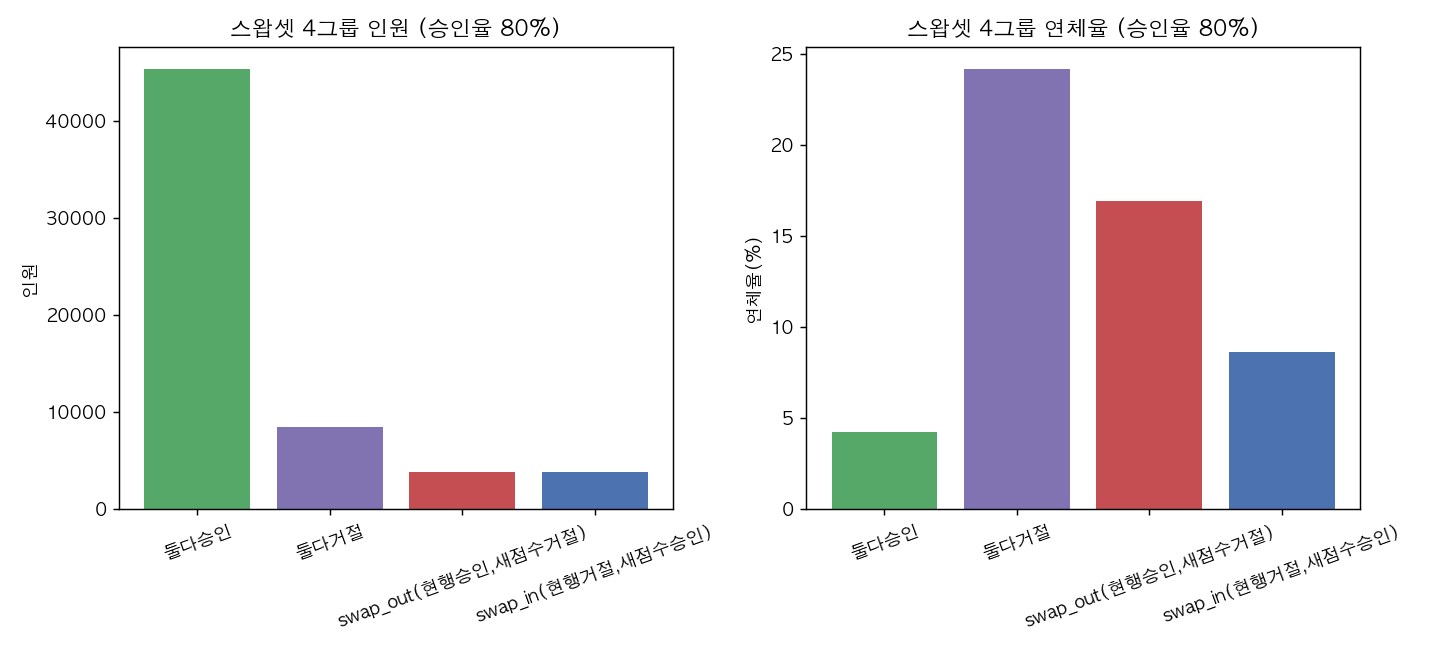
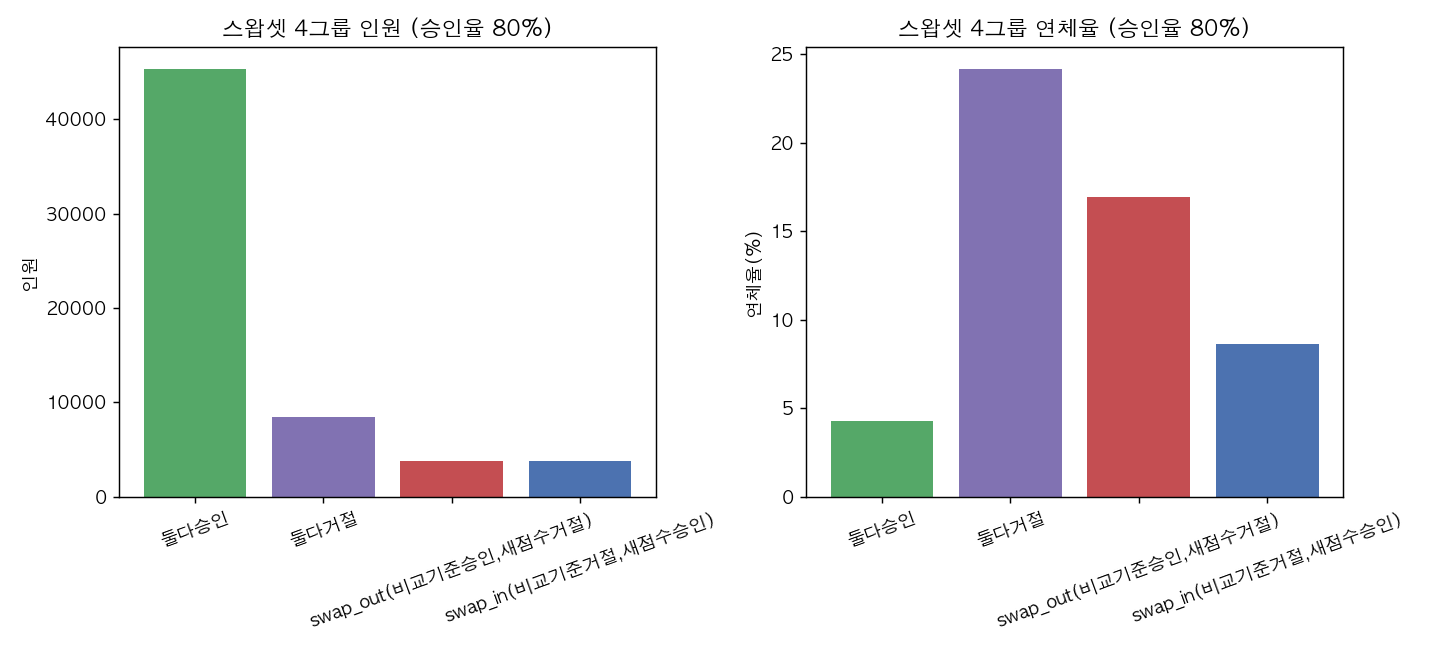
용어 정리: 최종 평가 라벨 비교 기준으로 변경 (수치 동일 확인)

diff --git a/v2/scripts/08_final_evaluation.py b/v2/scripts/08_final_evaluation.py
@@ -246,7 +246,7 @@ for r in h6_table:
 champ_rate_80, _ = approved_bad_rate(champ_score, holdout["TARGET"].values, 0.80)
 new_rate_needed = scan_approval_rate_for_target_rate(new_score, holdout["TARGET"].values, champ_rate_80)
 approval_rate_increase = (new_rate_needed - 0.80) * 100 if new_rate_needed is not None else None
-print(f"\n현행 80% 승인율의 연체율 {champ_rate_80*100:.3f}%와 같거나 낮은 연체율을 새 점수는 {new_rate_needed*100 if new_rate_needed else 'N/A'}% 승인율에서 달성 (증가폭 {approval_rate_increase}%p)")
+print(f"\n비교 기준 80% 승인율의 연체율 {champ_rate_80*100:.3f}%와 같거나 낮은 연체율을 새 점수는 {new_rate_needed*100 if new_rate_needed else 'N/A'}% 승인율에서 달성 (증가폭 {approval_rate_increase}%p)")
 
 # 부트스트랩 95% CI (seed 고정, 복원추출 1,000회)
 boot_diffs = {a: [] for a in approval_rates}
@@ -288,8 +288,8 @@ new_approve_80 = approve_mask(new_score, 0.80)
 swap_groups = {
     "둘다승인": champ_approve_80 & new_approve_80,
     "둘다거절": (~champ_approve_80) & (~new_approve_80),
-    "swap_out(현행승인,새점수거절)": champ_approve_80 & (~new_approve_80),
-    "swap_in(현행거절,새점수승인)": (~champ_approve_80) & new_approve_80,
+    "swap_out(비교기준승인,새점수거절)": champ_approve_80 & (~new_approve_80),
+    "swap_in(비교기준거절,새점수승인)": (~champ_approve_80) & new_approve_80,
 }
 swap_table = []
 for name, mask in swap_groups.items():
@@ -406,7 +406,7 @@ fig, ax = plt.subplots(figsize=(8, 6))
 grid = np.arange(0.50, 1.0001, 0.01)
 champ_curve = [approved_bad_rate(champ_score, target_vals, a)[0] * 100 for a in grid]
 new_curve = [approved_bad_rate(new_score, target_vals, a)[0] * 100 for a in grid]
-ax.plot(grid * 100, champ_curve, label="현행 기준(외부점수)", color="#4C72B0")
+ax.plot(grid * 100, champ_curve, label="비교 기준(외부점수)", color="#4C72B0")
 ax.plot(grid * 100, new_curve, label=f"새 점수({final_label})", color="#C44E52")
 ax.axhline(base_rate * 100, color="gray", linestyle=":", label=f"전원승인 기저율 {base_rate*100:.2f}%")
 for a in approval_rates:
@@ -416,7 +416,7 @@ for a in approval_rates:
     ax.axvline(a * 100, color="lightgray", linestyle="--", linewidth=0.7)
 ax.set_xlabel("승인율(%)")
 ax.set_ylabel("승인군 연체율(%)")
-ax.set_title("현행 기준 vs 새 점수: 승인율-연체율 트레이드오프 (최종평가 세트)")
+ax.set_title("비교 기준 vs 새 점수: 승인율-연체율 트레이드오프 (최종평가 세트)")
 ax.legend()
 plt.tight_layout()
 plt.savefig(os.path.join(FIG_DIR, "tradeoff_champion_vs_challenger.png"), dpi=130)
@@ -451,7 +451,7 @@ for r in r_values:
         champ_index = champ_profits / full_approval_profit * 100
         new_index = new_profits / full_approval_profit * 100
         ax.plot(approval_grid * 100, new_index, label="새 점수", color="#C44E52")
-        ax.plot(approval_grid * 100, champ_index, label="현행", color="#4C72B0", linestyle="--")
+        ax.plot(approval_grid * 100, champ_index, label="비교 기준", color="#4C72B0", linestyle="--")
         champ_best_i = np.argmax(champ_profits)
         new_best_i = np.argmax(new_profits)
         ax.scatter(approval_grid[champ_best_i] * 100, champ_index[champ_best_i], color="#4C72B0", zorder=5)
